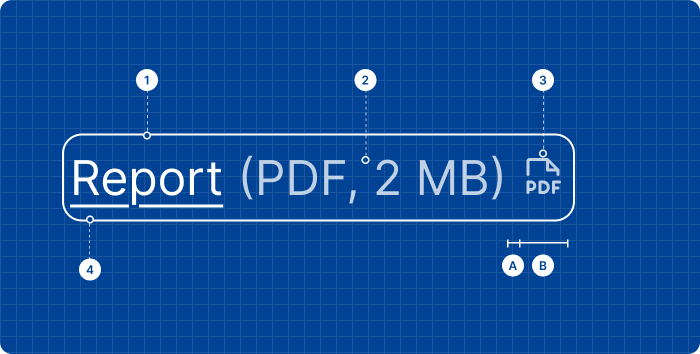
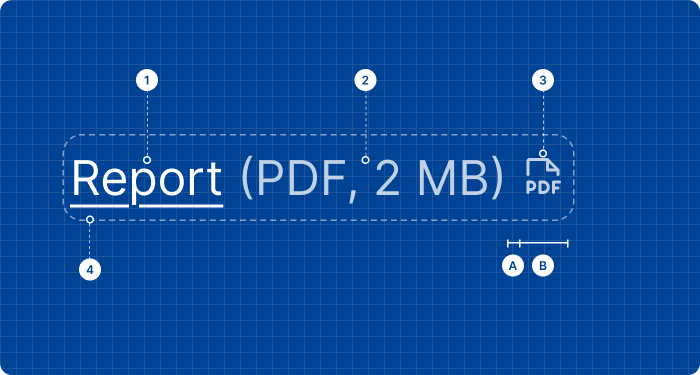
Figma: Link anatomy focus ring dashed and translucent
The focus ring of the anatomy board read as a button outline; it is now
dashed at 50 % opacity, callout 1 points at the label, and the legend
says the ring appears only on keyboard focus.

Claude-Session: https://claude.ai/code/session_01KQ5qDJziTR2xrfyLuKzfiU

diff --git a/authoring/adapters/figma/link-spec.plugin.js b/authoring/adapters/figma/link-spec.plugin.js
@@ -343,7 +343,9 @@ ring.x = LX - 2 * Z;
 ring.y = LY - (24 * Z - lab.height) / 2 - 2 * Z;
 ring.resize(gl.x + FS - LX + 4 * Z, 24 * Z + 4 * Z);
 ring.cornerRadius = 6 * Z;
-stroke(ring, 'wireframe/ink', 2, null, 'OUTSIDE');
+// Dashed and translucent: the ring is shown only on keyboard focus, and the link itself has no box.
+stroke(ring, 'wireframe/ink', 1.5, [6, 4], 'OUTSIDE');
+ring.opacity = 0.5;
 dg.appendChild(ring);
 const dimH = (x1, x2, y, ch) => {
   const l = figma.createLine();
@@ -366,7 +368,7 @@ const dimH = (x1, x2, y, ch) => {
 const ringBottom = ring.y + ring.height;
 dimH(meta.x + meta.width, glyphX, ringBottom + 24, 'A');
 dimH(glyphX, glyphX + FS, ringBottom + 24, 'B');
-pin(dg, 1, LX + lab.width / 2, 40, LX + lab.width / 2, ring.y);
+pin(dg, 1, LX + lab.width / 2, 40, LX + lab.width / 2, LY);
 pin(dg, 2, meta.x + meta.width / 2, 40, meta.x + meta.width / 2, LY);
 pin(dg, 3, glyphX + FS / 2, 40, glyphX + FS / 2, gl.y);
 pin(dg, 4, LX + 20, ringBottom + 50, LX + 20, ringBottom);
@@ -384,7 +386,10 @@ for (const [n, s] of [
     '3',
     'Indicator: one glyph, one em square, after the words, not underlined, in a quieter color. It says where the link goes; a page link has none.'
   ],
-  ['4', 'Focus ring: around the link when it is focused with the keyboard.'],
+  [
+    '4',
+    'Focus ring (dashed here): drawn around the link only when it is focused with the keyboard; the link itself has no box.'
+  ],
   ['A', 'Gap before the indicator: 2, 4 or 6 px with the density.'],
   ['B', 'Indicator size: the font size of the text (16 px in body md).']
 ]) {

diff --git a/foundations/components/actions/link/figma-spec.md b/foundations/components/actions/link/figma-spec.md
@@ -48,7 +48,7 @@ Recorded as such in `parity.json` where a record exists; none hides a defect of 
 
 ## Page style and diagrams
 
-Same layout as the other component pages. The Anatomy board shows a file link (“Report (PDF, 2 MB)” with its glyph) zoomed three times, with its focus ring, callouts 1 Label, 2 Meta, 3 Indicator, 4 Focus ring and the dimensions A (gap) and B (glyph size). Colors come from the Figma-only **Wireframe** collection and the documentation components `_Spec/Board`, `_Spec/Callout`, `_Spec/Marker` on the Utilities page.
+Same layout as the other component pages. The Anatomy board shows a file link (“Report (PDF, 2 MB)” with its glyph) zoomed three times, with its focus ring dashed and translucent (shown only on keyboard focus: the link has no box), callouts 1 Label, 2 Meta, 3 Indicator, 4 Focus ring and the dimensions A (gap) and B (glyph size). Colors come from the Figma-only **Wireframe** collection and the documentation components `_Spec/Board`, `_Spec/Callout`, `_Spec/Marker` on the Utilities page.
 
 ## Parity method
 
